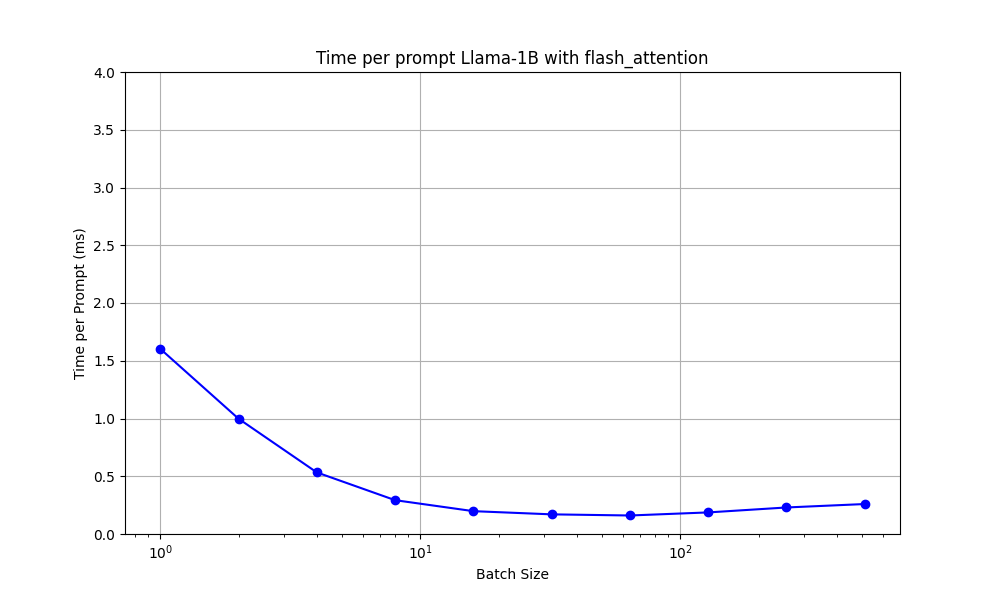
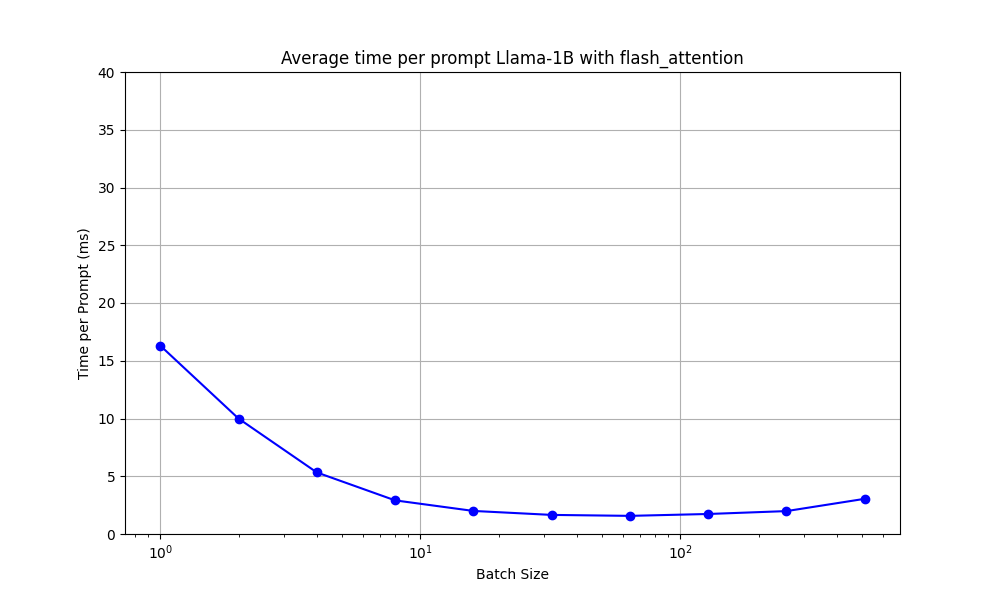
Regenerate pngs

diff --git a/model-inference-time.py b/model-inference-time.py
@@ -71,7 +71,7 @@ def test_batch_sizes(model, tokenizer) -> list[dict]:
 def plot_and_save(results: list[dict], title: str, filepath: str) -> None:
     # Extract batch size and time per prompt
     batch_sizes = [result['batch_size'] for result in results]
-    times_per_prompt = [result['time'] * 100 for result in results]
+    times_per_prompt = [result['time'] * 1000 for result in results]
 
     # Plot the results
     plt.figure(figsize=(10, 6))
@@ -81,7 +81,7 @@ def plot_and_save(results: list[dict], title: str, filepath: str) -> None:
     plt.title(title)
     plt.grid(True)
     # plt.xlim(0, 1050)
-    plt.ylim(0, 4)
+    plt.ylim(0, 40)
     plt.xscale('log')  # Log scale for batch size
     # plt.yscale('log')  # Log scale for time
 
